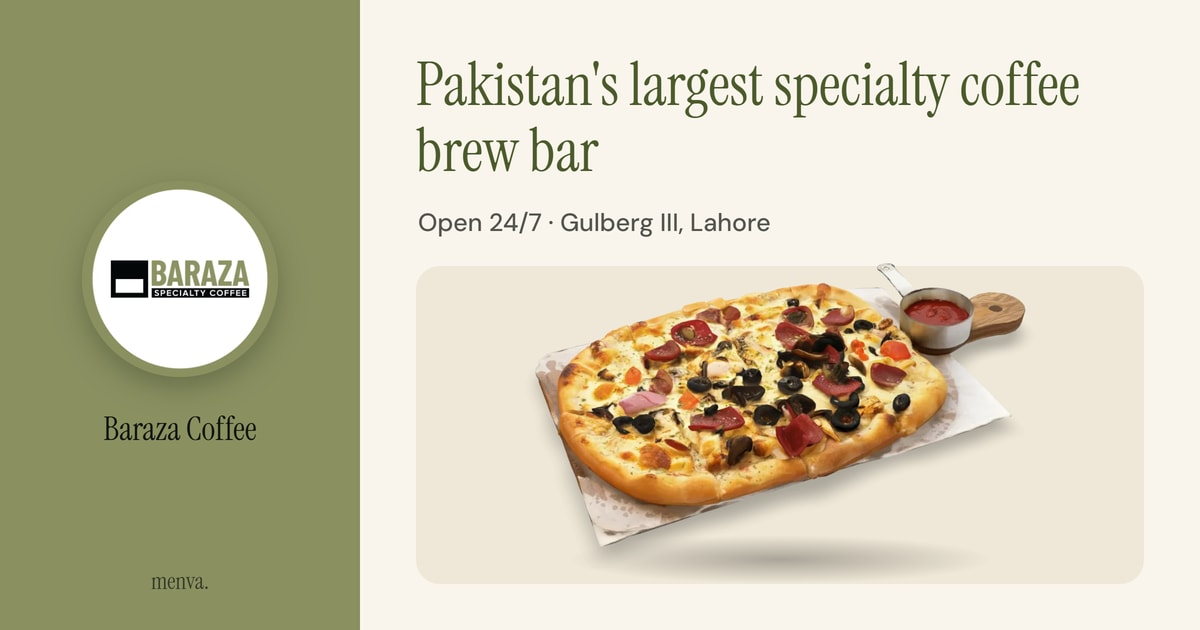
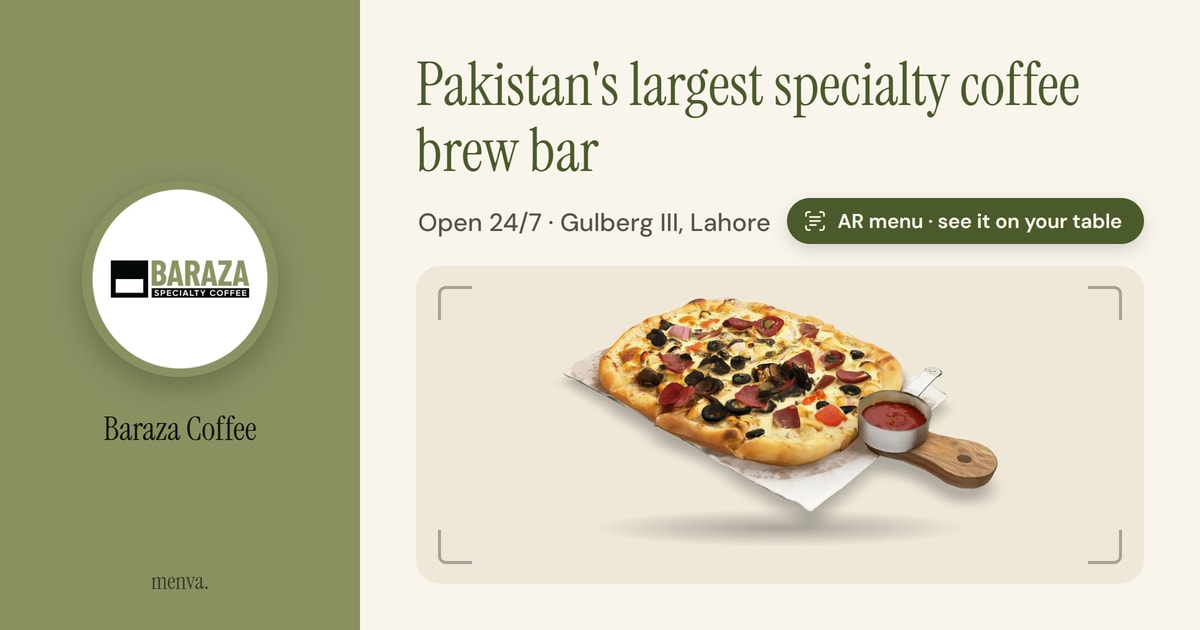
Share cards: Gauchos, Baraza and Haute Dolci previews say AR menu (chip, camera brackets, titles)

diff --git a/js/app.js b/js/app.js
@@ -329,7 +329,7 @@
 
   // ─── Brand page (/) — customers only: no 3D, no owner pitch (that lives at /for-restaurants) ─
   function brandPage() {
-    document.title = '3D & AR restaurant menus in Lahore — MENVA';
+    document.title = 'See restaurant dishes on your table in AR — Lahore | MENVA';
     setTheme('default');
 
     // Restaurants listed on the home page, in data order (scripts/build-data.mjs sorts by `homeOrder`).
